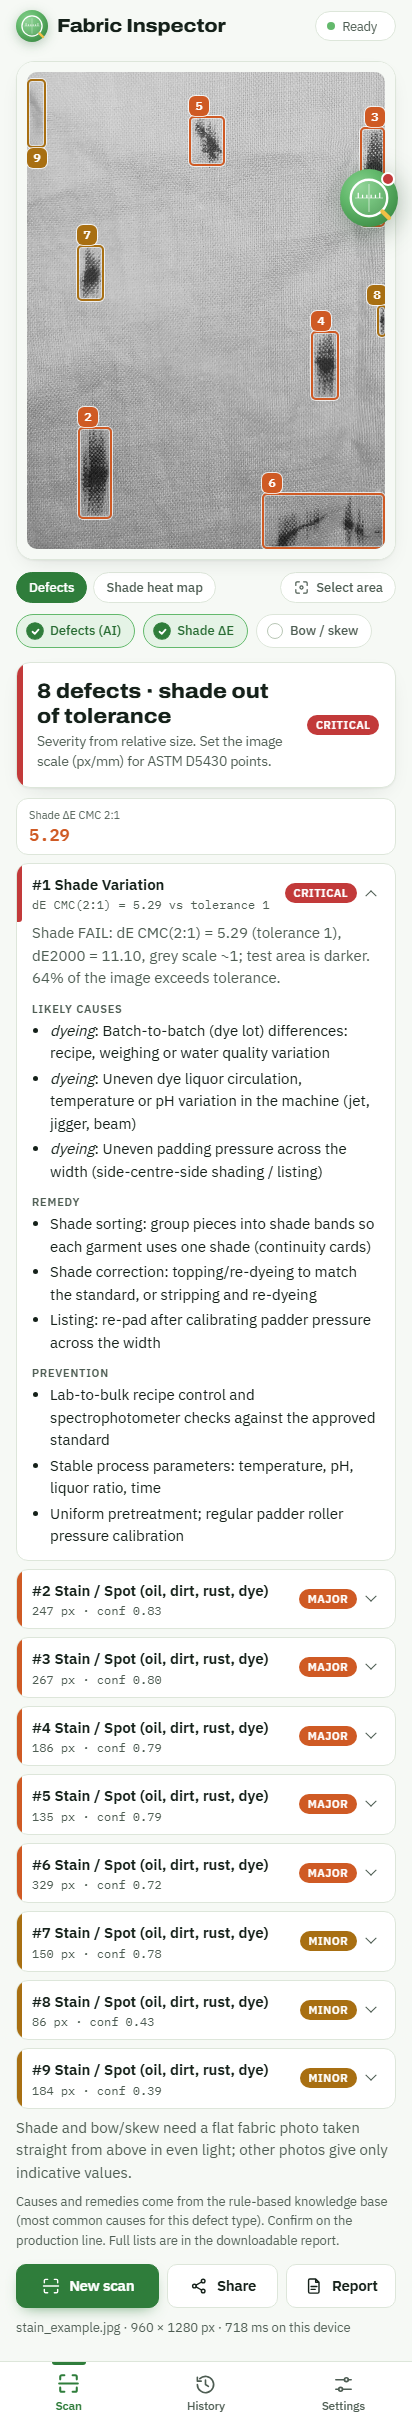
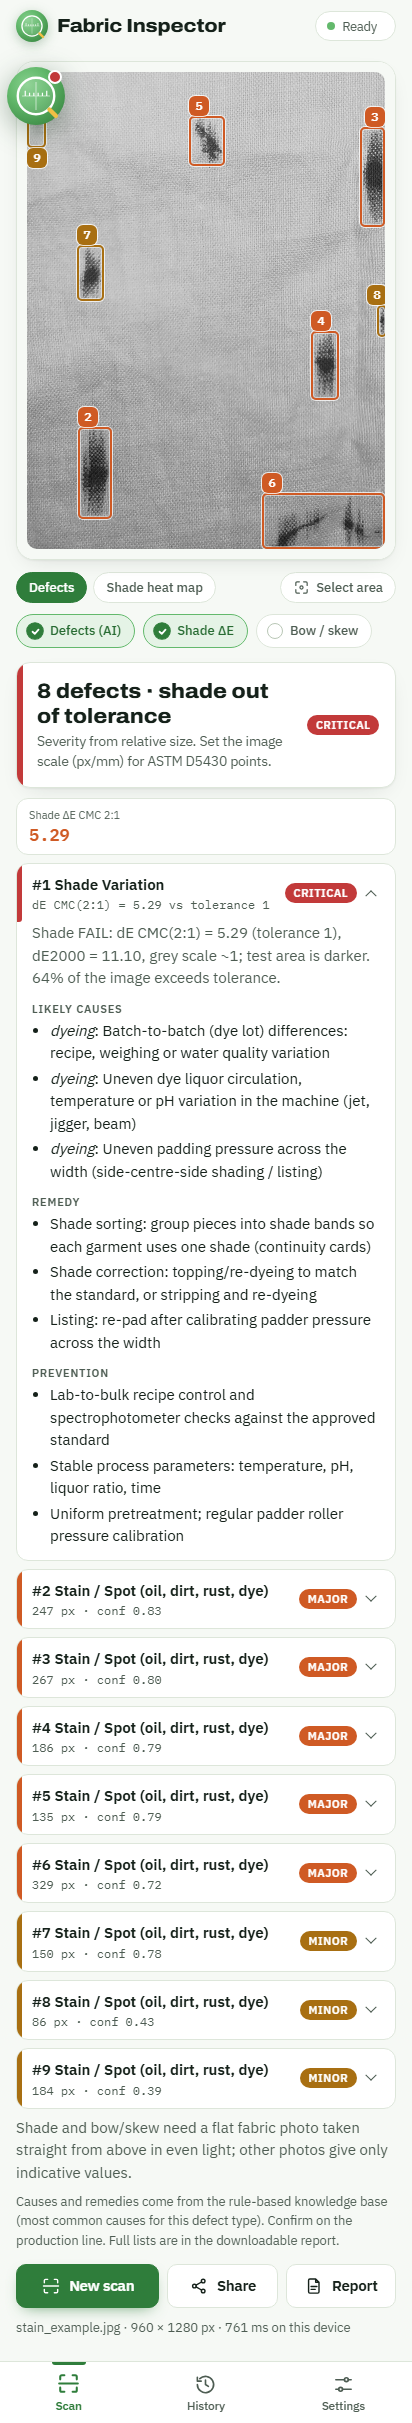
Desktop layout: fixed-height result panel with scrolling findings
On wide screens both columns get the same fixed height; the verdict and the action
buttons stay in place and only the findings list scrolls. Phones are unchanged.

Changed region(s): [[0.8155, 0.0619, 0.9903, 0.0929], [0.0, 0.031, 0.1748, 0.0619]]

diff --git a/web_static/css/app.css b/web_static/css/app.css
@@ -378,3 +378,17 @@ body.pipbody[data-view="bubble"] { display: grid; place-items: center; min-heigh
             cursor: pointer; color: #cdeccf; background: none; font: 500 14px var(--f-body); transition: background .15s; }
 .qa-float:hover { background: rgba(255, 255, 255, .08); }
 .qa-float svg { width: 18px; height: 18px; }
+
+/* wide screens: both columns have the same fixed height; the findings scroll inside their box */
+@media (min-width: 900px) {
+  #scr-scan { --colh: max(460px, calc(100dvh - 96px)); }
+  #scr-scan[data-state=photo] { --maxh: calc(var(--colh) - 150px); }
+  #scr-scan[data-state=photo] .stagecol { height: var(--colh); grid-template-rows: minmax(0, 1fr) auto auto; }
+  #scr-scan[data-state=photo] .stage { display: grid; min-height: 0; }
+  #scr-scan[data-state=photo] .photo { height: 100%; }
+  #results:not([hidden]) { position: sticky; top: 76px; height: var(--colh); grid-template-rows: auto minmax(0, 1fr) auto auto; align-content: stretch; }
+  #results .report { overflow-y: auto; overscroll-behavior: contain; align-content: start; grid-auto-rows: max-content; padding: 2px 6px 12px 2px; margin-right: -6px;
+                     scrollbar-width: thin; scrollbar-color: var(--line-2) transparent;
+                     -webkit-mask-image: linear-gradient(#000 calc(100% - 22px), transparent); mask-image: linear-gradient(#000 calc(100% - 22px), transparent); }
+  #results .actions { margin-top: 0; }
+}

diff --git a/web_static/sw.js b/web_static/sw.js
@@ -1,5 +1,5 @@
-// Offline cache (generated by build_static.py) - version 7b3cc8640e
-const CACHE = "fdi-7b3cc8640e";
+// Offline cache (generated by build_static.py) - version b7ad95cfeb
+const CACHE = "fdi-b7ad95cfeb";
 const FILES = ["css/app.css", "examples/hole_example.jpg", "examples/skew_example.jpg", "examples/stain_example.jpg", "icons/icon-192.png", "icons/icon-512.png", "index.html", "iphone.html", "js/app.js", "js/bubble.js", "js/camera.js", "js/detector.js", "js/imgutil.js", "js/kb.js", "js/shade.js", "js/skew.js", "js/store.js", "js/verdict.js", "kb.json", "manifest.webmanifest", "model/best.onnx", "ort/ort-wasm-simd-threaded.mjs", "ort/ort-wasm-simd-threaded.wasm", "ort/ort.wasm.min.mjs"];
 const clean = (r) => (r && r.redirected ? r.blob().then((b) => new Response(b, { status: 200, headers: r.headers })) : r);
 // one file at a time with retries: on a weak mobile connection a single failed download must not undo the rest
